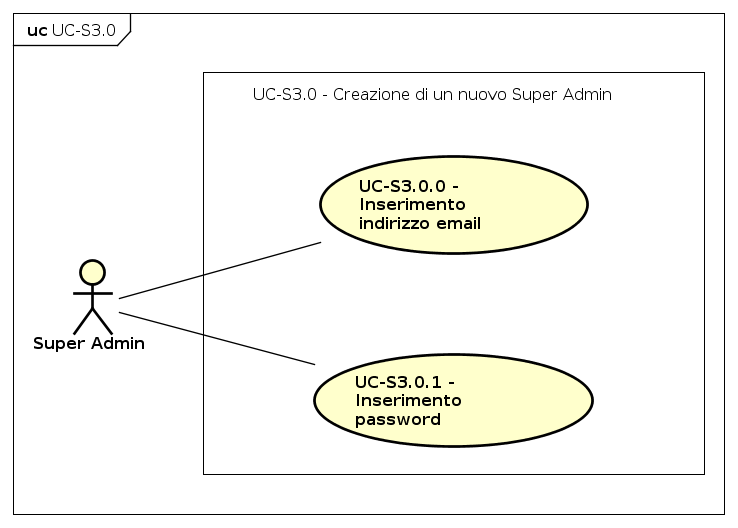
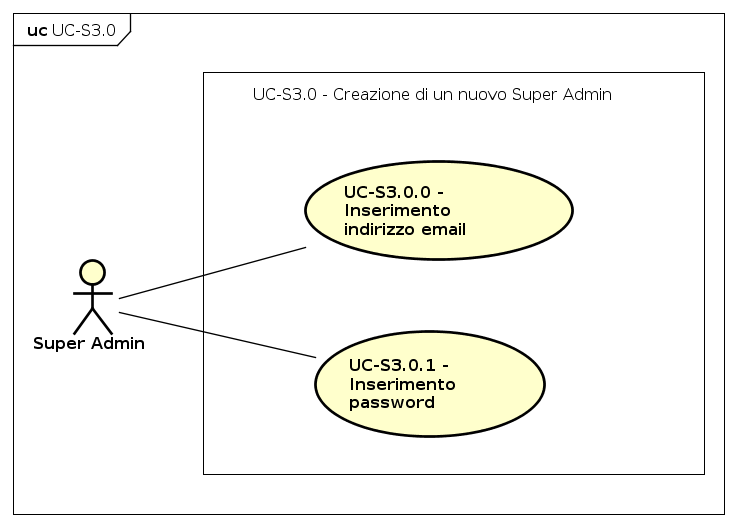
Add UCs in scenarios of UC3 in "Super Admin"

diff --git a/official/AnalisiDeiRequisiti/res/sections/superadmin.tex b/official/AnalisiDeiRequisiti/res/sections/superadmin.tex
@@ -565,55 +565,6 @@ Di seguito vengono elencati i \glossaryItem{casi} d'uso per il \glossaryItem{Sup
 %      \egroup
 %    \end{center}
 
-\subsubsection{UC-S4} 
-    
-    %Tabella 
-    \begin{center}
-      \bgroup
-      \def\arraystretch{1.8}     
-      \begin{longtable}{  p{3.5cm} | p{8cm} } 
-        
-        \hline
-        \multicolumn{2}{ | c | }{ \cellcolor[gray]{0.9} \textbf{UC-S4 - Fallisce la creazione di una \glossaryItem{Company}}} \\ 
-        \hline
-        
-        \textbf{Attori Primari} & \glossaryItem{Super-Admin}\\  
-        \textbf{Scopo e descrizione} & Il \glossaryItem{Super-Admin} ha inserito dei dati errati per la creazione della \glossaryItem{Company}, quindi il sistema comunica l'errore. \\
-      
-        \textbf{Precondizioni}  & L'applicazione ha ricevuto in input dei dati non validi per la creazione di una \glossaryItem{Company}. \\ 
-        
-        \textbf{Postcondizioni} & Il sistema mostra al \glossaryItem{Super-Admin} un messaggio di errore che comunica l'entità dell'input errato. \\ 
-         \textbf{Scenario principale} & 1. Il \glossaryItem{Super-Admin} visualizza l'errore. \\
-        
-     \end{longtable}
-      \egroup
-    \end{center}
-
-
-    \subsubsection{Fallisce la modifica di una Company} 
-    
-    %Tabella 
-    \begin{center}
-      \bgroup
-      \def\arraystretch{1.8}     
-      \begin{longtable}{  p{3.5cm} | p{8cm} } 
-        
-        \hline
-        \multicolumn{2}{ | c | }{ \cellcolor[gray]{0.9} \textbf{UC-S5 - Fallisce la modifica di una \glossaryItem{Company}}} \\ 
-        \hline
-        
-        \textbf{Attori Primari} & \glossaryItem{Super-Admin}\\  
-        \textbf{Scopo e descrizione} & Il \glossaryItem{Super-Admin} ha inserito dei dati errati per la modifica della \glossaryItem{Company} e il sistema comunica l'errore. \\
-      
-        \textbf{Precondizioni}  & L'applicazione ha ricevuto in input dei dati non validi per la modifica di una \glossaryItem{Company}. \\ 
-        
-        \textbf{Postcondizioni} & Il sistema mostra al \glossaryItem{Super-Admin} un messaggio di errore che comunica l'entità dell'input errato. \\ 
-         \textbf{Scenario principale} & 1. Il \glossaryItem{Super-Admin} visualizza l'errore. \\
-        
-     \end{longtable}
-      \egroup
-    \end{center}
-
 \subsubsection{Gestione degli altri Super-Admin}
     \begin{figure}[H]
       \begin{center}
@@ -638,11 +589,11 @@ vedere in un elenco quelli già presenti e vederne le informazioni in dettaglio 
         \textbf{Precondizioni}  & Il \glossaryItem{Super-Admin} entra nella pagina di gestione dei \glossaryItem{Super-Admin}.\\ 
         
         \textbf{Postcondizioni} & Il sistema ha preso in carico le indicazioni del \glossaryItem{Super-Admin}. \\ 
-         \textbf{Scenario principale} & 1. Il \glossaryItem{Super-Admin} ha la possibilit\`a di aggiungere un nuovo \glossaryItem{Super-Admin}  
+         \textbf{Scenario principale} & 1. Il \glossaryItem{Super-Admin} ha la possibilit\`a di aggiungere un nuovo \glossaryItem{Super-Admin}.  (UC-S3.0)
          
-         2. Il \glossaryItem{Super-Admin} ha la possibilit\`a di visualizzare in dettaglio il profilo di un \glossaryItem{Super-Admin} esistente. \\
+         2. Il \glossaryItem{Super-Admin} ha la possibilit\`a di visualizzare in dettaglio il profilo di un \glossaryItem{Super-Admin} esistente. (UC-S3.1) \\
         
-         \textbf{Estensioni} & 1. Fallimento dell'inserimento di un \glossaryItem{Super-Admin}.  \\
+         \textbf{Estensioni} & 1. Fallimento dell'inserimento di un \glossaryItem{Super-Admin}. (UC-S3.2) \\
      
      \end{longtable}
       \egroup
@@ -673,9 +624,9 @@ vedere in un elenco quelli già presenti e vederne le informazioni in dettaglio 
       
         \textbf{Precondizioni}  &  Il \glossaryItem{Super-Admin} entra nella pagina di creazione di un nuovo \glossaryItem{Super-Admin} \\
         \textbf{Postcondizioni} & Il sistema ha creato un nuovo \glossaryItem{Super-Admin} nel database \\ 
-         \textbf{Scenario principale} & 1. Il \glossaryItem{Super-Admin} inserisce l'email dell'utente da registrare; 
+         \textbf{Scenario principale} & 1. Il \glossaryItem{Super-Admin} inserisce l'email dell'utente da registrare; (UC-S3.0.0)
          
-         2. Il \glossaryItem{Super-Admin} aggiunge una password nell'apposito campo.\\
+         2. Il \glossaryItem{Super-Admin} aggiunge una password nell'apposito campo. (UC-S3.0.1)\\
         
      
      \end{longtable}
